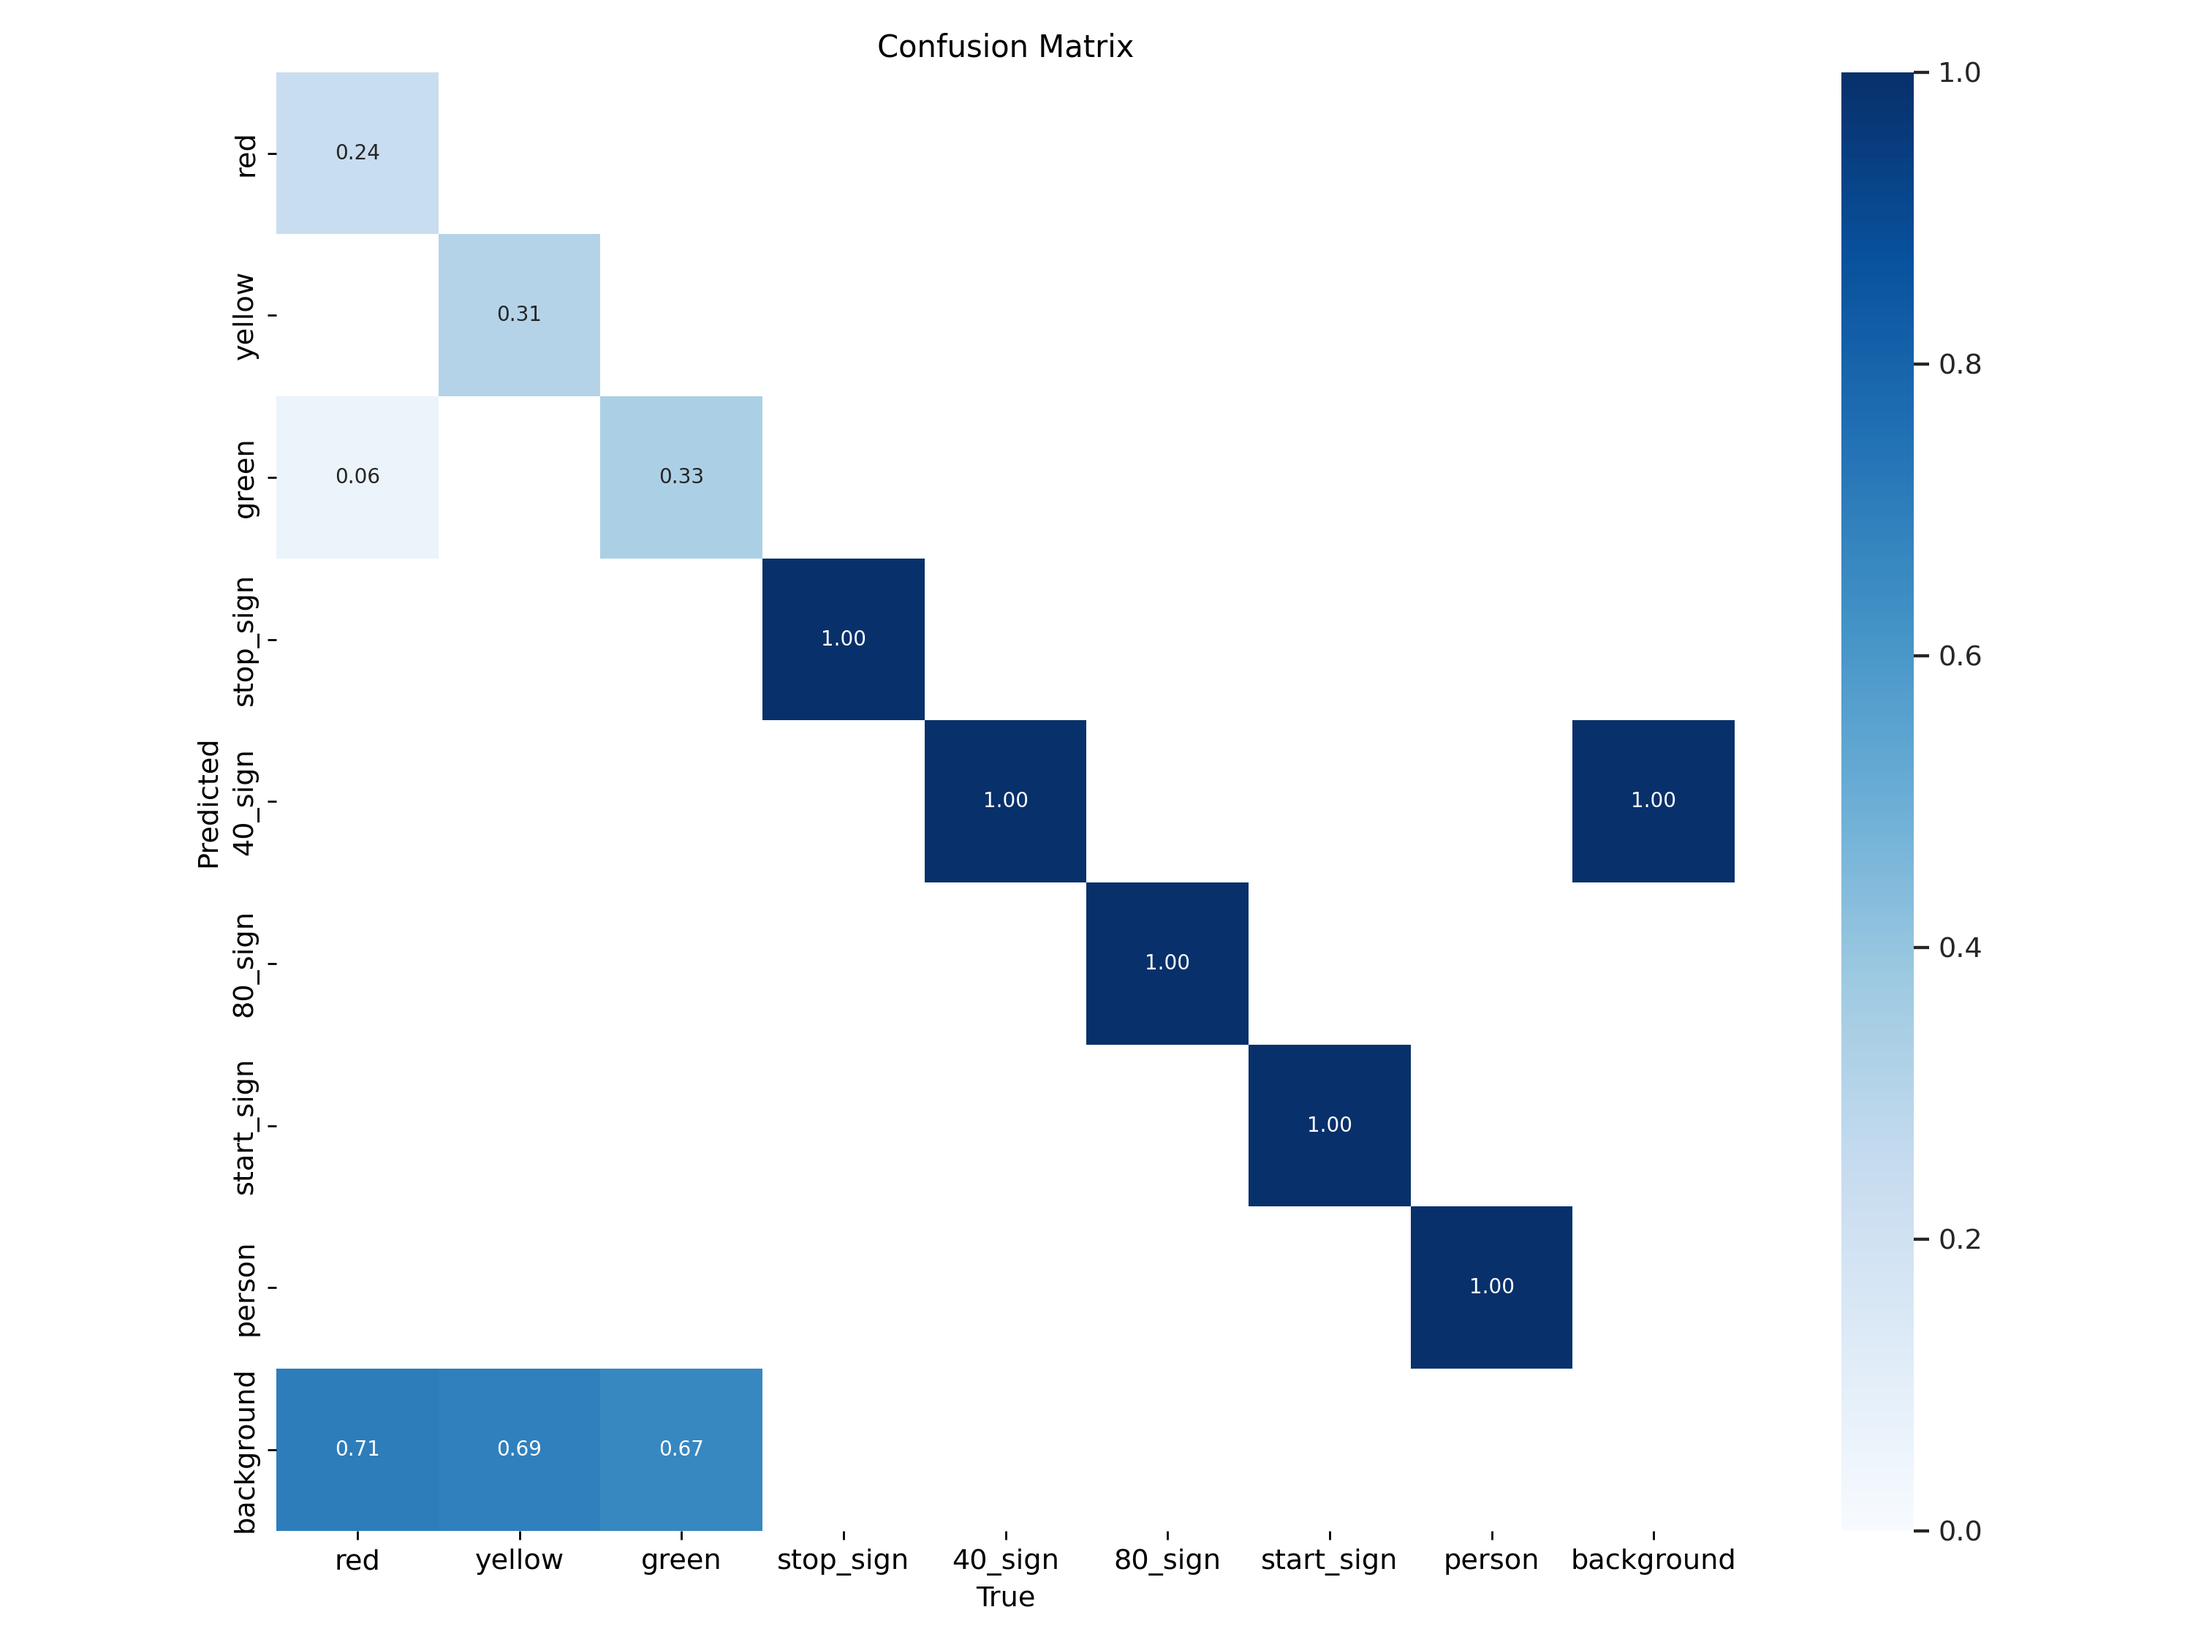
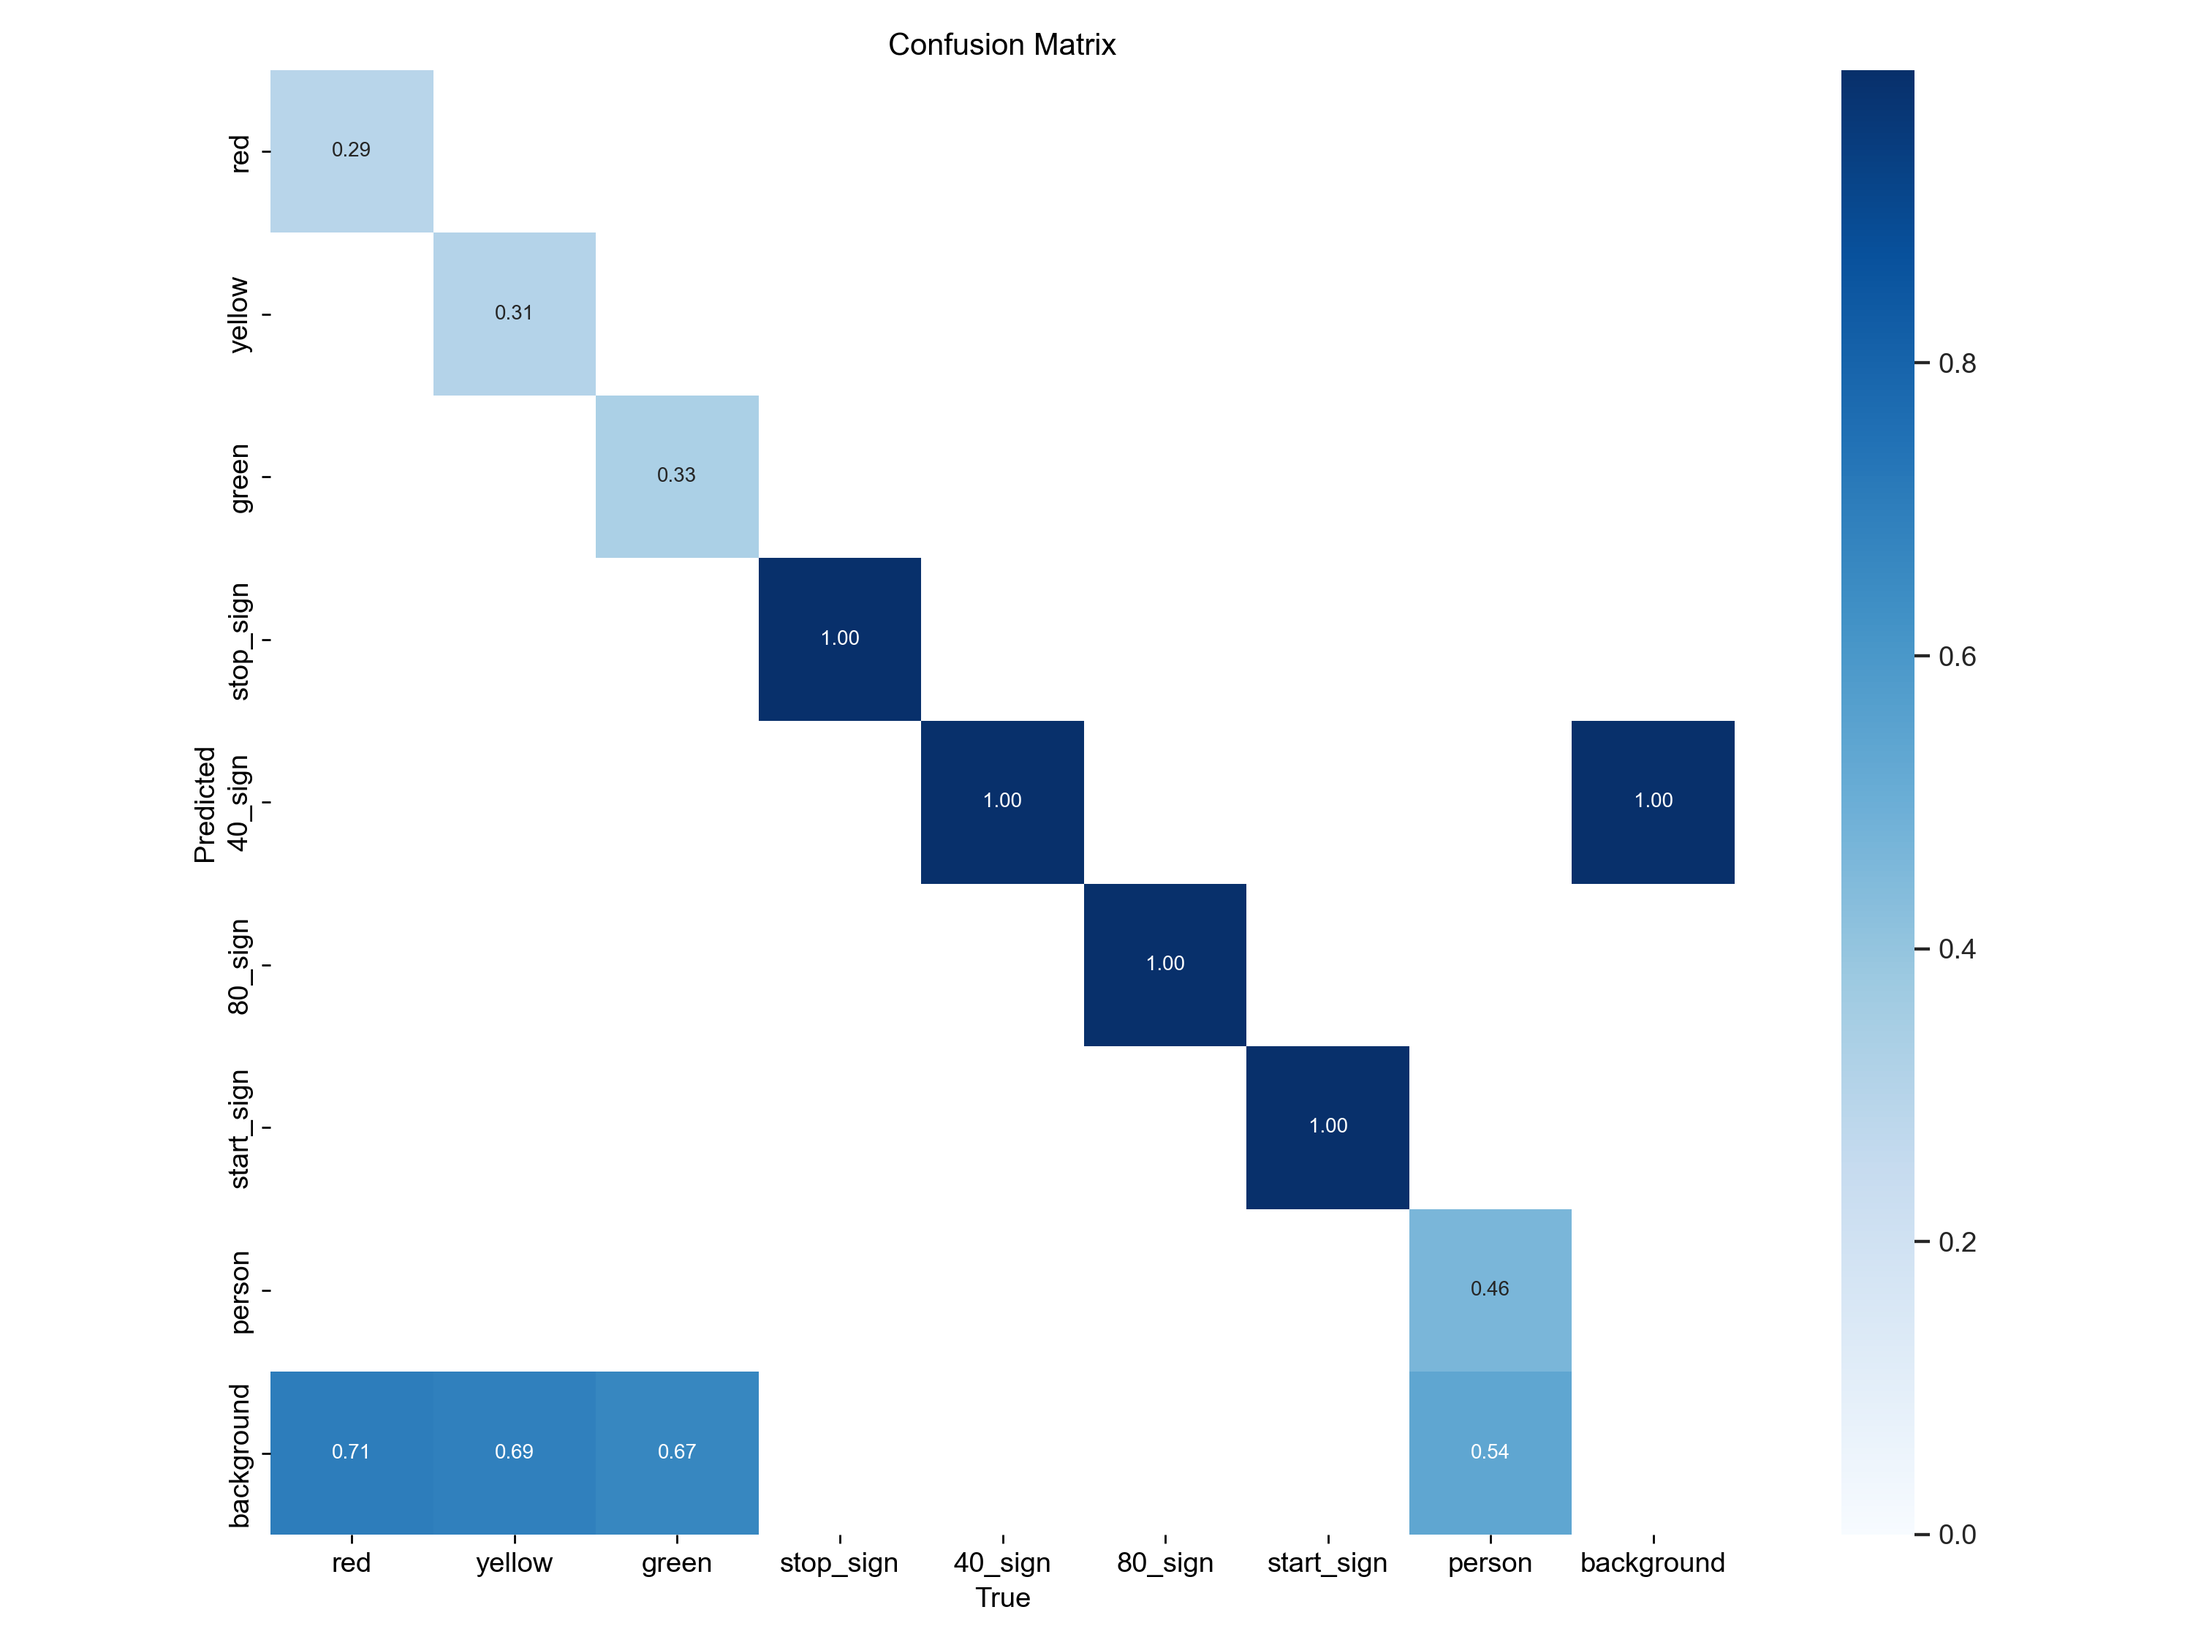
ADD: Added all changes including evaluation results and updated files

diff --git a/yolov5/evaluate.py b/yolov5/evaluate.py
@@ -51,7 +51,7 @@ def evaluate_model(weights_path, data_path, img_size=640, batch_size=1, device=N
 
 if __name__ == "__main__":
     # 평가에 사용할 가중치 파일 및 데이터셋 구성 파일
-    weights_file = "runs/train/exp/weights/best.pt"  # 모델 가중치 경로
+    weights_file = "runs/train/exp8/weights/best.pt"  # 모델 가중치 경로
     data_file = "data/traffic.yaml"                 # 데이터셋 구성 파일 경로
 
     # 평가 수행
